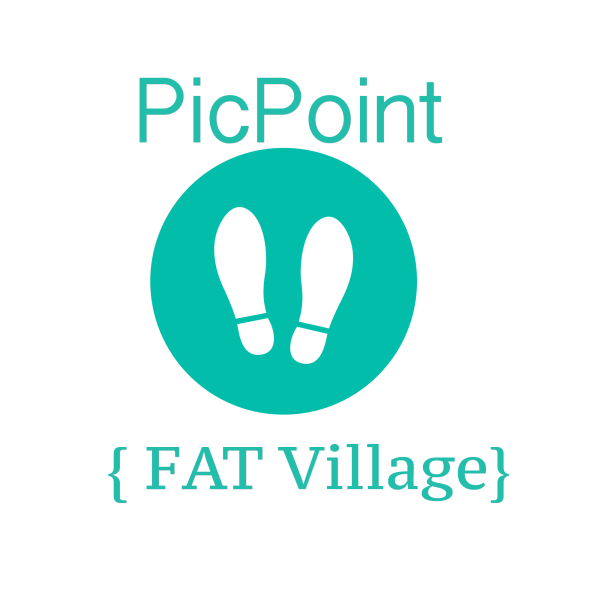
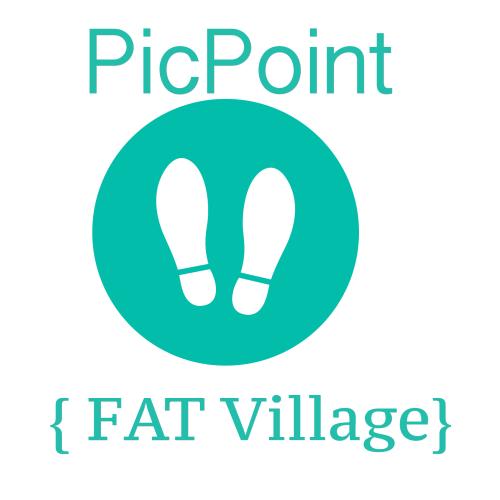
styling editing for create trail page

Changed region(s): [[0.18, 0.03, 0.9, 0.93], [0.09, 0.78, 0.15, 0.93]]

diff --git a/app/assets/stylesheets/application.css b/app/assets/stylesheets/application.css
@@ -36,7 +36,7 @@ body {
 }
 
 .logo {
-  width: 18%;
+  width: 10%;
   height: 100%;
   margin-top: -8%;
   margin-left: 75%;
@@ -73,10 +73,20 @@ body {
 .trailleadpic {
   width: 100%;
   background-color: #B1E6D9;
-  margin: 3%;
+  margin: 1% 1% 1% 1%;
+  padding: 0 0 0 0;
 }
 
+.picpin {
+  padding: 0 0 0 0;
+  margin-top: 0 0 0 0;
+}
 
+.uploaderbox {
+background-color: #22ADA5;
+width: 75%;
+margin-top: 8%;
+}
 /*--bottom navigation -- */
 
 footer{
@@ -128,7 +138,7 @@ ul li:nth-child(3) {
 
 /*--phone media query-- */
 @media only screen
-and (min-device-width : 375px)
+and (min-device-width : 300px)
 and (max-device-width : 667px) {
   .top .logo {
     width: 35%;
@@ -136,21 +146,33 @@ and (max-device-width : 667px) {
     margin-top: -12%;
     margin-left: 55%;
   }
-  .push{
-   color: #F8F8F8;
-   font-size: 2em;
+  body {
+    margin-bottom: 35%;
+  }
+
+  .headlinebox {
+    margin-top: -25%;
+  }
+
+  .headline {
+    margin-left: 5%;
+    color: #057B71;
+  }
+  .tagline {
+    margin-top: -10%;
+    margin-left: 10%;
+    color: #0CA79C;
+  }
+
+  .logo {
+    size: 50px;
   }
 }
 
 
-/*phone media query -- */
-  @media only screen
-and (min-device-width : 375px)
-and (max-device-width : 667px) {
-  /*.footer {
-    visibility: visible !important;
-  }*/
-}
+
+
+
 
 /*--Tablet media query-- */
 @media only screen
@@ -159,7 +181,7 @@ and (max-device-width : 1024px)  {
 /* STYLES GO HERE */
 }
 
-/*Laptop Media Quer -- */
+/*Laptop Media Queru -- */
 @media screen
   and (min-device-width: 1200px)
   and (max-device-width: 1600px)

diff --git a/app/assets/stylesheets/photos.scss b/app/assets/stylesheets/photos.scss
@@ -5,3 +5,24 @@
   width: 100px;
   opacity: 0;
 }
+
+#plusIcon {
+  opacity: 0;
+}
+
+.addphoto {
+  font-size: 6em;
+  margin-top: -22%;
+}
+
+.uploaderbox {
+background-color: #22ADA5;
+width: 75%;
+margin-top: 8%;
+}
+
+#addphoto {
+  width: 50px;
+  height: atuo;
+
+}

diff --git a/app/assets/stylesheets/itineraries.scss b/app/assets/stylesheets/itineraries.scss
@@ -4,3 +4,8 @@
   height: 500px;
   width: 500px;
 }
+
+.uploaderbox {
+background-color: #22ADA5;
+width: 75%;
+}
